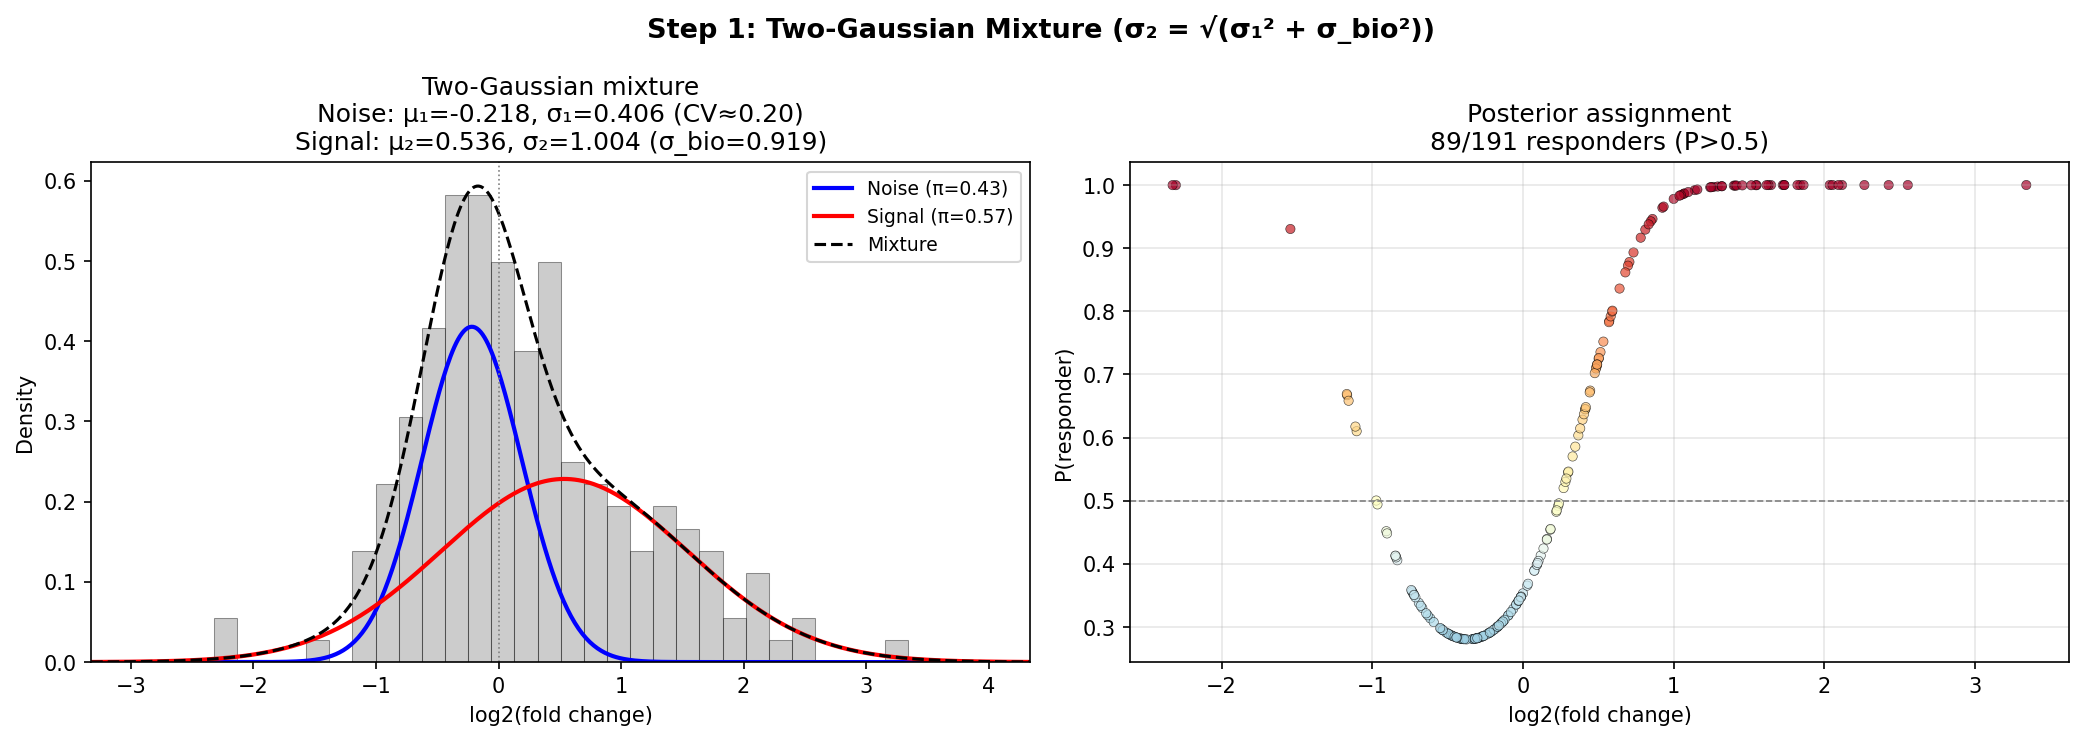
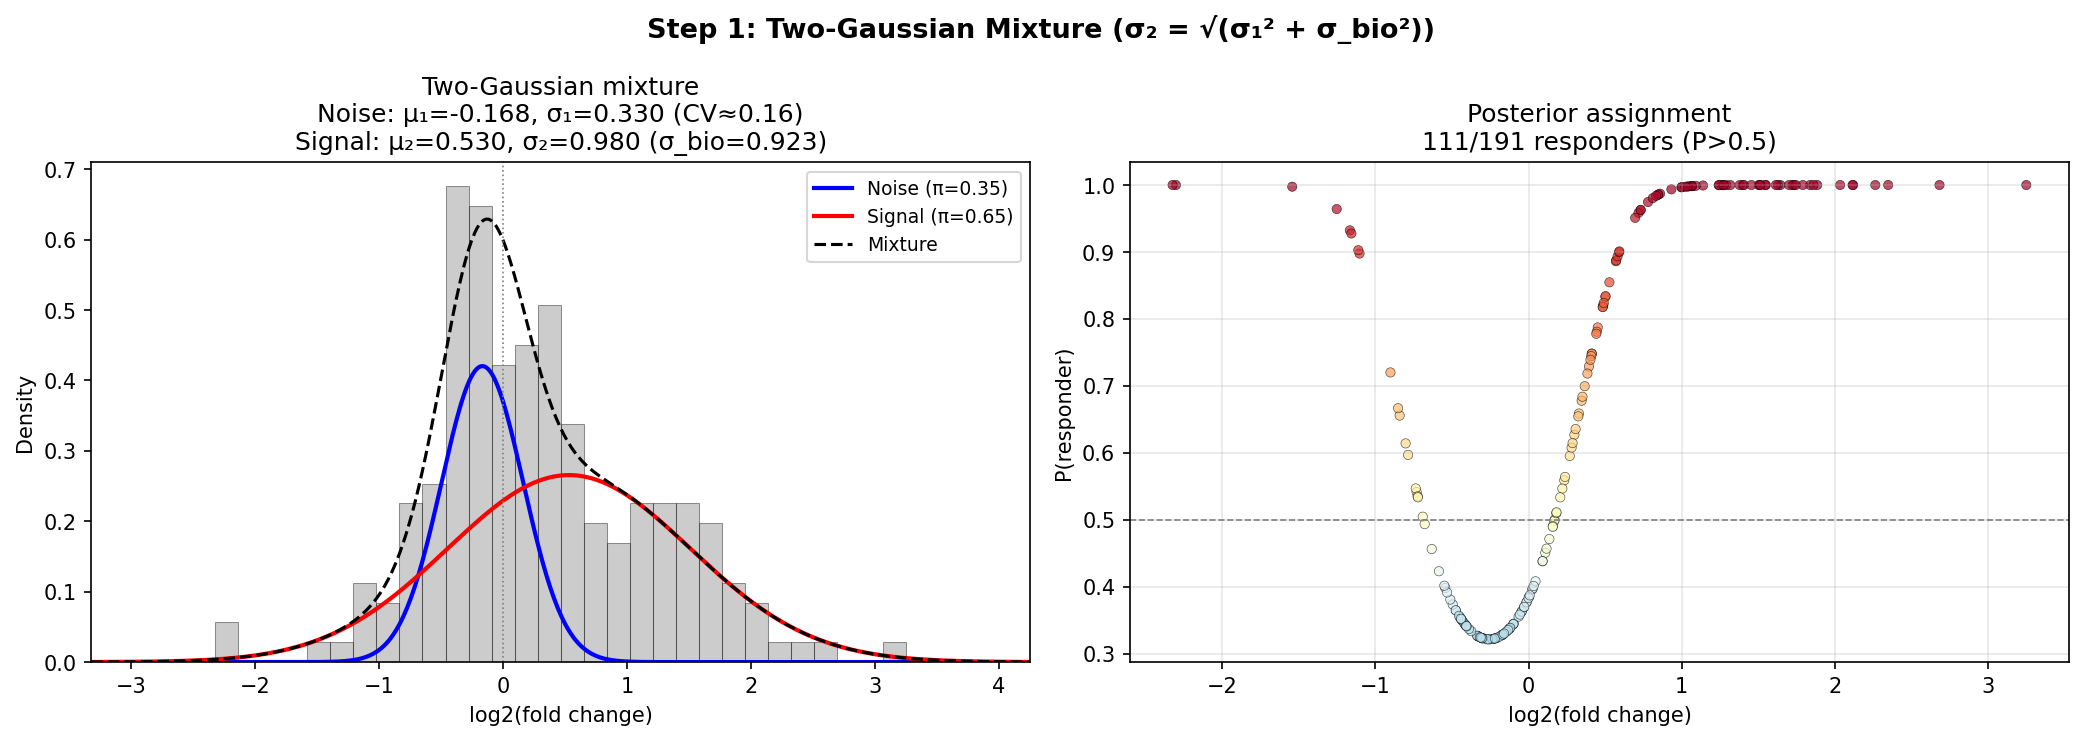
Switch fold-change to first-two-points; filter indx387 outlier
Use consecutive first two observations instead of first-to-last. This
captures the acute-phase response more cleanly and avoids conflating
initial boost with long-term waning in 3-4 point subjects.

Filter indx387 (291→0.6 EU in 95d, 500× decline — lab error).
Threshold at |log2(FC)| > 6 (64×) to catch only obvious outliers.

Results shift: CV drops from 0.20 to 0.16 (less waning contamination),
Step 1 now best among non-covariate models (AIC=481), Step 4 τ-ratio
less useful with shorter/more uniform time gaps. Step 5 still ΔAIC=69.

Added fit_teunis_untrunc() as exported working model function.

diff --git a/metastudies/waning_after_infection/Aiemjoy2022_reanalysis/reanalysis/mixture_eda/08_fold_change_mixture.py b/metastudies/waning_after_infection/Aiemjoy2022_reanalysis/reanalysis/mixture_eda/08_fold_change_mixture.py
@@ -37,15 +37,26 @@ OUT_DIR = Path("metastudies/waning_after_infection/Aiemjoy2022_reanalysis/reanal
 
 
 def load_fold_change_data():
-    """Load longitudinal Vi IgG data and compute fold changes."""
+    """Load longitudinal Vi IgG data and compute fold changes.
+
+    Uses first two observations (consecutive visits) rather than first-to-last.
+    This captures the acute-phase response more cleanly: the first two visits
+    are closest to infection and most informative about boosting, rather than
+    conflating initial boost with long-term waning in 3-4 point subjects.
+    """
     long = pd.read_csv(DATA_DIR / "vi_igg_long.csv")
     records = []
     for sid, grp in long[long["has_longitudinal"]].groupby("index_id"):
         grp = grp.sort_values("days_since_fever_onset")
         t0, eu0 = grp.iloc[0]["days_since_fever_onset"], grp.iloc[0]["vi_igg_eu"]
-        t1, eu1 = grp.iloc[-1]["days_since_fever_onset"], grp.iloc[-1]["vi_igg_eu"]
+        t1, eu1 = grp.iloc[1]["days_since_fever_onset"], grp.iloc[1]["vi_igg_eu"]
         dt = t1 - t0
         if dt <= 0 or eu0 <= 0 or eu1 <= 0:
+            continue
+        log2_fc = np.log2(eu1 / eu0)
+        # Filter indx387: 291→0.6 EU in 95 days (500× decline), almost
+        # certainly a lab error. No Vi IgG biological process does this.
+        if abs(log2_fc) > 6:
             continue
         records.append({
             "index_id": sid,
